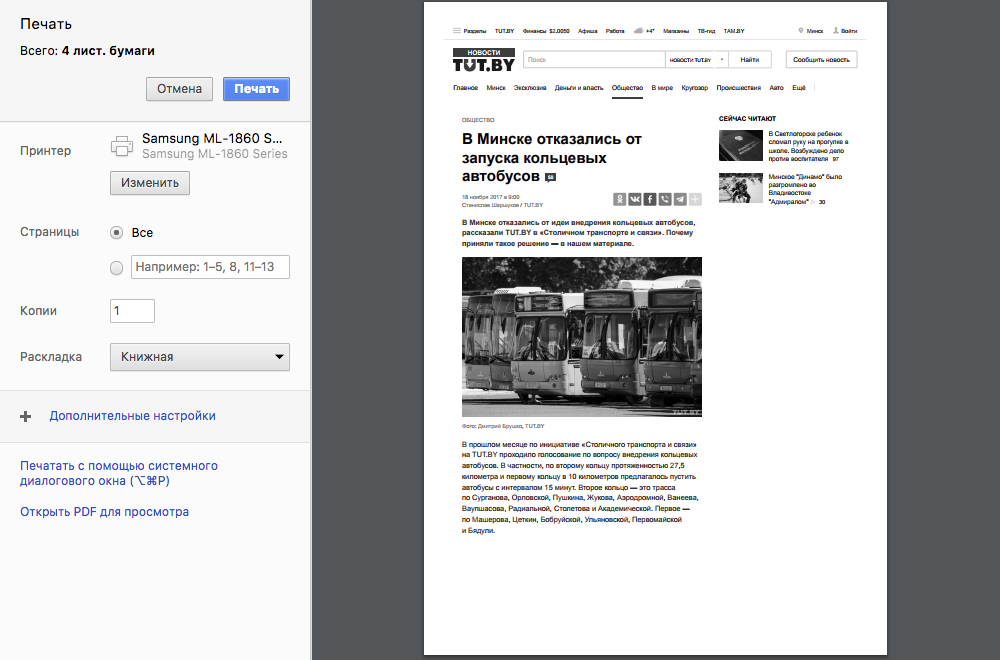
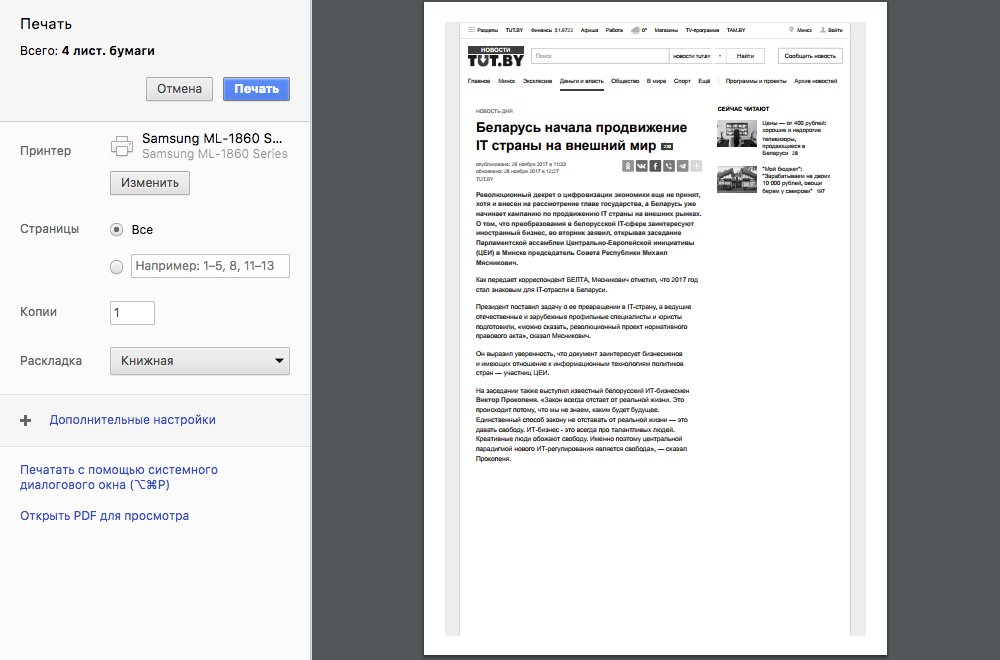
Update css-print talk for WSD

diff --git a/print-with-css/index.html b/print-with-css/index.html
@@ -54,7 +54,6 @@
                 margin: 0;
                 font-size: 24px;
             }
-
         </style>
     </section>
 
@@ -63,7 +62,7 @@
         <div class="info">
             <h2>Никита Дубко</h2>
             <ul>
-                <li>front-end разработчик;</li>
+                <li>Sofware Engineer в iTechArt;</li>
                 <li>адепт философии Pure CSS Images;</li>
                 <li>преподавал в БГУИР.</li>
             </ul>
@@ -77,8 +76,33 @@
             #about .info {
                 margin-left: 50%;
             }
-
         </style>
+    </section>
+
+    <section class="slide clear">
+        <img src="./pictures/itechart-logo.svg" alt="iTechArt Group" class="place" style="max-height:60%;">
+    </section>
+
+    <section class="slide clear">
+        <div style="display: flex; width: 100%; height: 80%; align-items: center; justify-content: space-around;">
+            <img src="./pictures/minskcss-logo.svg" alt="MinskCSS">
+            <img src="./pictures/minskjs-logo.svg" alt="MinskJS">
+        </div>
+    </section>
+
+    <section class="slide clear">
+        <img src="./pictures/htmlacademy-logo.svg" alt="HTML Academy" class="cover height">
+    </section>
+
+    <section class="slide clear">
+        <div style="display: flex; justify-content: center; align-items: center; height: 80%;">
+            <img src="./pictures/bsuir.png" alt="BSUIR">
+            <p style="line-height: 1.4; font-size: 40px; font-weight: bold; margin-left: 40px; color: steelblue;">Белорусский
+                <br>Государственный
+                <br>Университет
+                <br>Информатики и
+                <br>Радиэлектроники</p>
+        </div>
     </section>
 
     <section class="slide">
@@ -125,13 +149,12 @@
             #tutby .hightlight {
                 display: block;
                 width: 250px;
-                height: 410px;
+                height: 370px;
                 border: 3px solid red;
                 position: absolute;
-                left: 465px;
-                top: 120px;
+                left: 471px;
+                top: 95px;
             }
-
         </style>
     </section>
 
@@ -163,7 +186,41 @@
             #tutby-steps footer {
                 z-index: 2;
             }
+        </style>
+    </section>
 
+    <section class="slide examples">
+        <div class="place left block next">
+            <img src="./pictures/newsru.jpg" alt="Newsru">
+            <h2>NEWSru</h2>
+        </div>
+        <div class="place right block next">
+            <img src="./pictures/lentaru.jpg" alt="Lenta.ru">
+            <h2>Lenta.ru</h2>
+        </div>
+        <div class="place block next">
+            <img src="./pictures/ria_ru.jpg" alt="РИА Новости">
+            <h2>РИА Новости</h2>
+        </div>
+
+        <style>
+            .examples .block {
+                width: 50%;
+                height: 100%;
+            }
+
+            .examples .block img {
+                max-width: 100%;
+                border: 5px solid gray;
+            }
+
+            .examples .block h2 {
+                position: absolute;
+                top: 5%;
+                left: 5%;
+                color: white;
+                text-shadow: 0 0 4px black, 1px 1px 10px black;
+            }
         </style>
     </section>
 
@@ -189,7 +246,10 @@
     </section>
 
     <section class="slide">
-        <img class="place" src="./pictures/stb.jpg" alt="СТБ">
+        <div style="display: flex; justify-content: space-around; align-items: center;">
+            <img src="./pictures/gost.png" style="max-width: 40%;" alt="ГОСТ">
+            <img src="./pictures/stb.jpg" style="max-width: 50%;" alt="СТБ">
+        </div>
         <footer>
             <p>В мире научных работ есть такое страшное словосочетание: государственный стандарт.</p>
         </footer>
@@ -214,6 +274,14 @@
         <img src="./pictures/cry.jpg" class="place" alt="Cry Meme">
         <footer>
             <p>Среднестатистический студент, когда пытается оформить курсовую или дипломную работу идеально по ГОСТ-ам, выглядит
+                как-то так.</p>
+        </footer>
+    </section>
+
+    <section class="slide clear">
+        <img src="./pictures/cry.jpg" style="transform: translate(-50%,-50%) scaleX(-1);" class="place" alt="Cry Meme">
+        <footer>
+            <p>Среднестатистический преподаватель, когда пытается проверить курсовую или дипломную работу на соответствие ГОСТ-ам, выглядит
                 как-то так.</p>
         </footer>
     </section>
@@ -250,6 +318,12 @@
                 </div>
             </li>
             <li class="next">
+                <a href="http://booking.com/">Booking.com</a>
+                <div class="proof-container">
+                    <img class="proof" src="./pictures/booking.jpg">
+                </div>
+            </li>
+            <li class="next">
                 <a href="https://medium.com/@sandersk/streamlining-css-print-design-with-sass-debaa2a204c3">O’Reilly</a>
                 <div class="proof-container">
                     <img class="proof" src="./pictures/example-oreilly.jpg">
@@ -283,7 +357,6 @@
                 width: 100%;
                 max-height: 100%;
             }
-
         </style>
     </section>
 
@@ -467,7 +540,6 @@ function callPrint() {
                 color: #444;
                 background-color: #eee;
             }
-
         </style>
     </section>
 
@@ -811,13 +883,12 @@ img { max-width: 100% !important; }</code></pre>
             #tutby-example .hightlight {
                 display: block;
                 width: 250px;
-                height: 410px;
+                height: 370px;
                 border: 3px solid green;
                 position: absolute;
-                left: 465px;
-                top: 120px;
+                left: 471px;
+                top: 95px;
             }
-
         </style>
     </section>
 

diff --git a/README.md b/README.md
@@ -1,6 +1,6 @@
 # Conferences and meetups: public talks
 
 * Web Standard Days 2017 in Minsk — [«Houdini: великий разоблачитель»](houdini-magic/) ([видео](https://www.youtube.com/watch?v=4kr5K-nWG3Y))
-* MinskCSS Meetup #3 — [«Распечатай мне курсач. На CSS»](print-with-css/)
+* MinskCSS Meetup #3, Web Standard Days 2018 in Moscow — [«Распечатай мне курсач. На CSS»](print-with-css/)
 * MinskJS Meetup #3 — [«JS Decorators — приоденьте свой код»](js-decorators/)
 * MinskJS Meetup #3 — [«Полный Spectre уязвимостей»](spectre-panel-discussion/)
